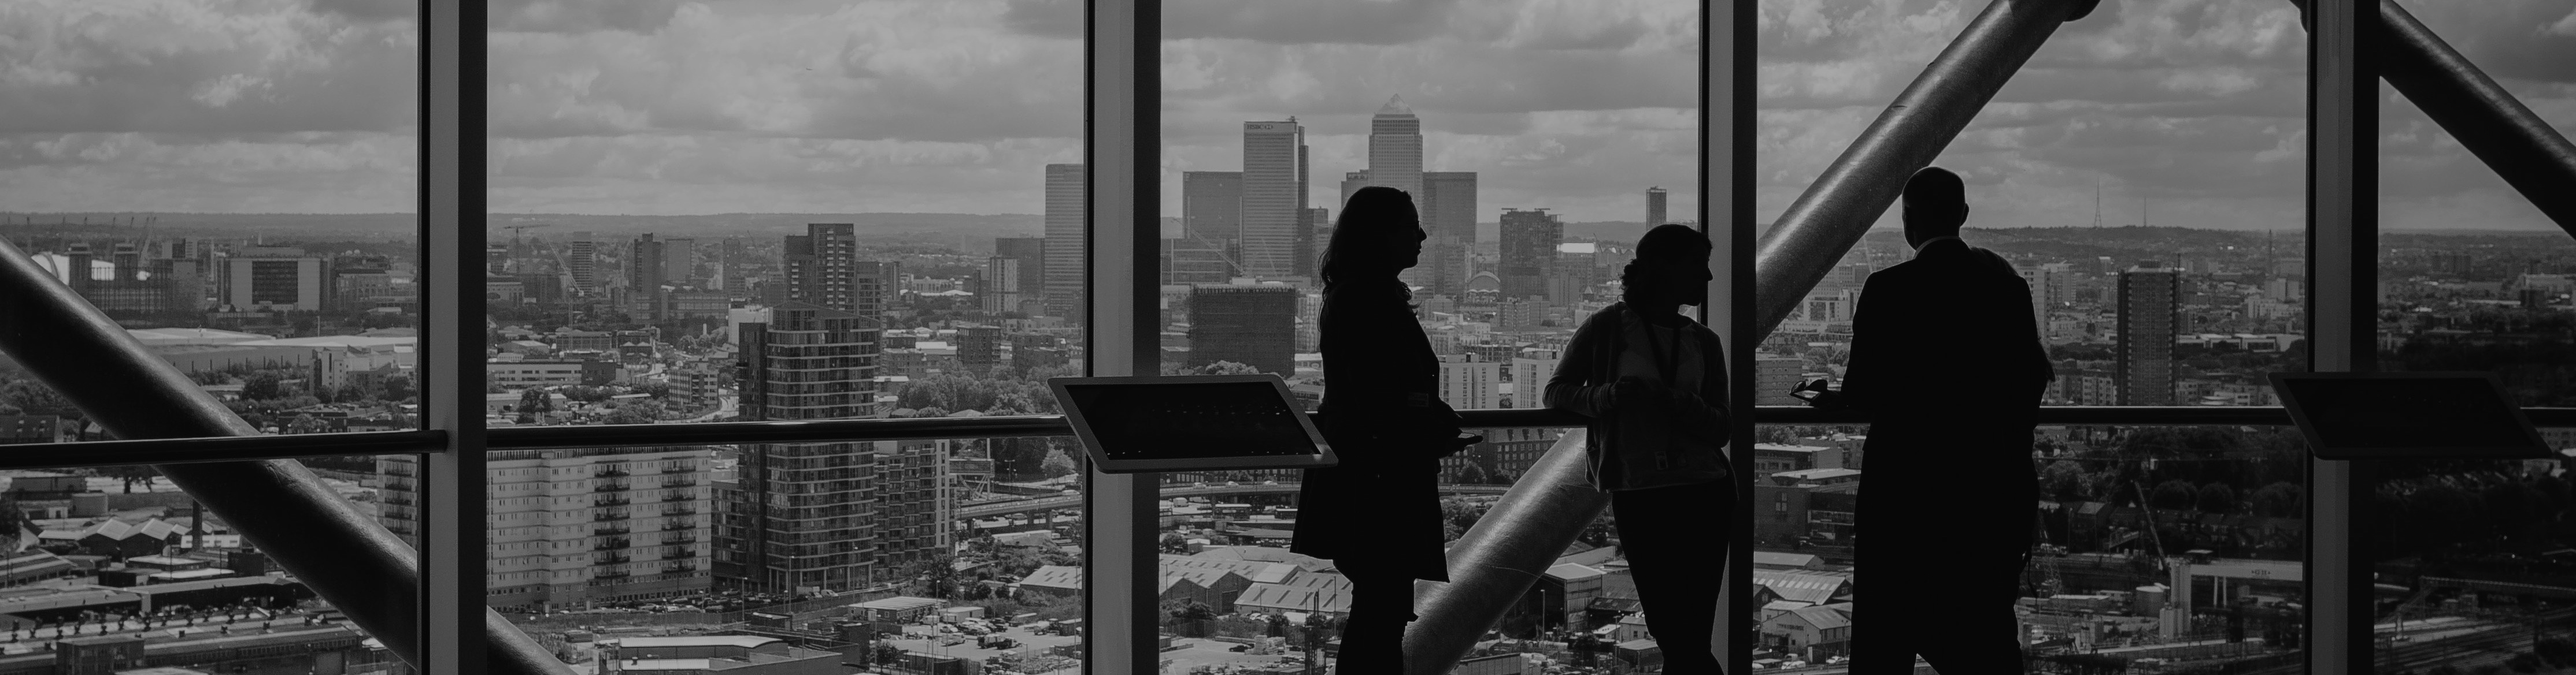
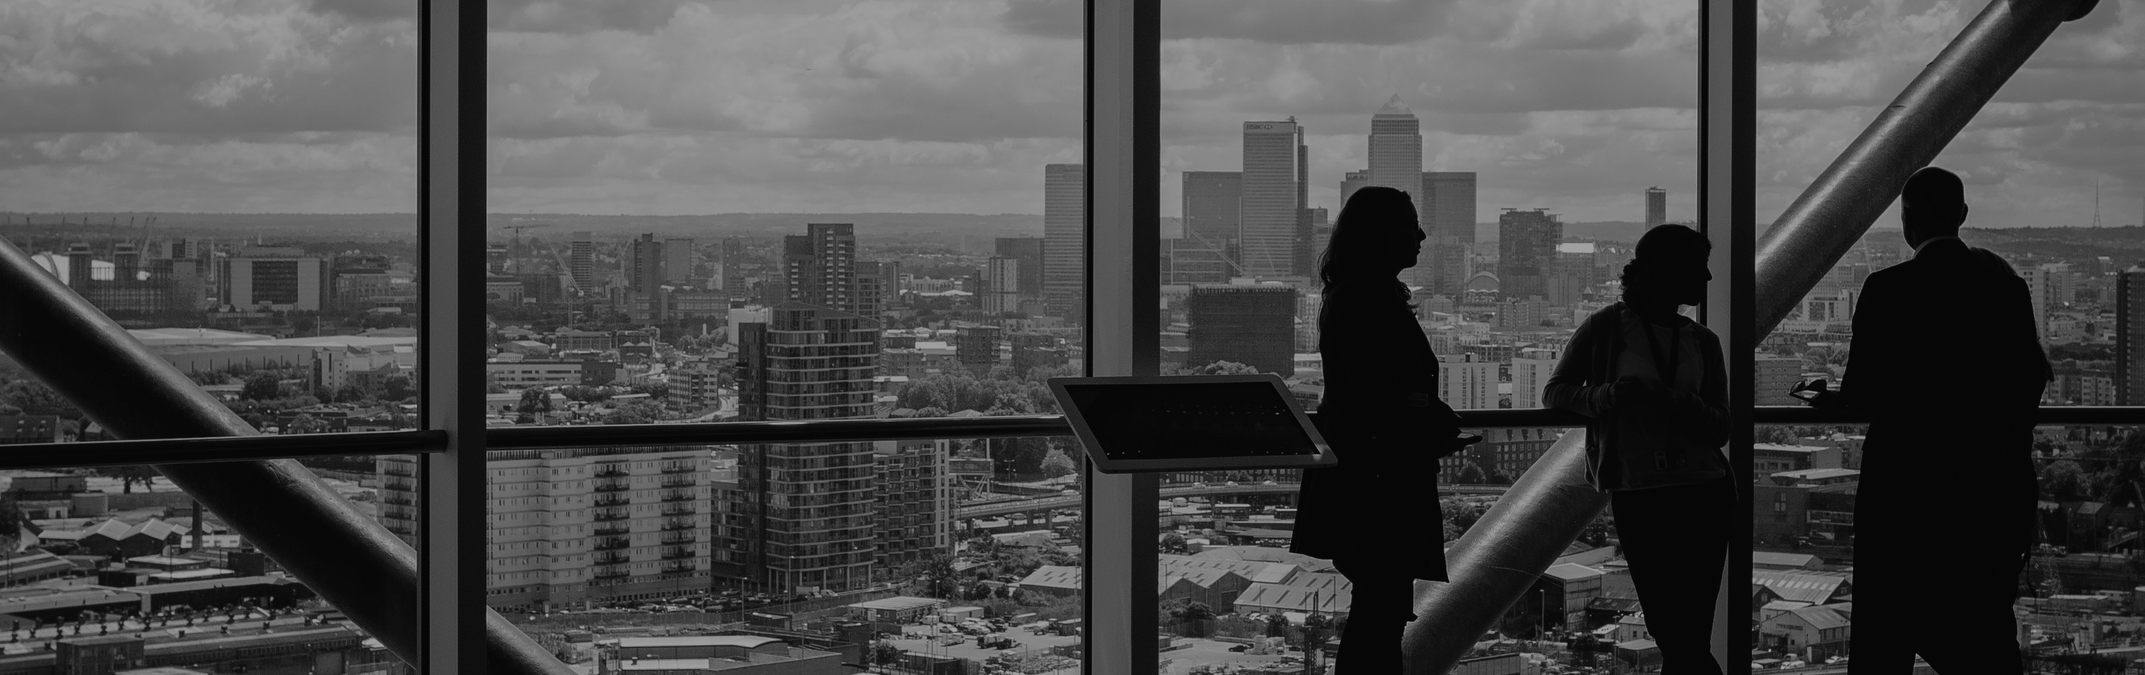
hero text positioning

diff --git a/getyourdata/static/local-css/local.scss b/getyourdata/static/local-css/local.scss
@@ -170,21 +170,39 @@ $heading-colour: #333333;
     background-image:url("/static/img/home/hero-image.jpg");
     background-size:cover;
     background-color: #EEEEEE;
-    height: 450px;
+    background-position: right;
+    height: 500px;
     padding: 60px;
   }
 .hero-unit h1 {
     color: #FFFFFF;
     font-size: 40px;
     letter-spacing: -1px;
-    line-height: 1;
+    line-height: 1.3;
+    margin-top: 50px;
     margin-bottom: 0;
     max-width: 600px;
 }
 .hero-unit h2 {
-    font-size: 18px;
+    font-size: 19px;
+    line-height: 1.4;
     color: #FFFFFF;
     max-width: 600px;
+}
+.hero-box {
+    margin-top: 40px;
+    background-color: rgba(0,0,0,0.6);
+    padding: 18px;
+    padding-top: 10px;
+    display: inline-block;
+}
+.hero-box label {
+    font-size: 19px;
+    color: #FFFFFF;
+    margin-top: 18px;
+}
+.hero-form {
+    max-width: 350px;
 }
 .fill{width:100%;height:350px;background-position:center;background-size:cover;
 }

diff --git a/getyourdata/templates/home/frontpage.html b/getyourdata/templates/home/frontpage.html
@@ -12,9 +12,20 @@
   <div class="hero-unit">
 
     <h1>Get your information from companies and the government</h1>
-    <h2>Make a request for your personal data to any organisation; by law they have to respond
-    </h2>
-    <p><a class="btn btn-primary btn-large">Learn more</a></p>
+    <form>
+      <div class="form-group hero-box">
+        <h2>Make a request for your personal data to any organisation; by law they have to respond
+        </h2>
+        <label for="search">Name of organisation</label>
+        <div class="input-group hero-form">
+          <input type="text" class="form-control input-lg" id="search" placeholder="Islington Council..">
+          <span class="input-group-btn">
+            <button type="submit" class="btn btn-primary input-lg">Search</button>
+          </span>
+        </div>
+      </div>
+    </form>
+    {% comment %}<p><a class="btn btn-primary btn-large">Learn more</a></p>{% endcomment %}
 
   </div>
 
